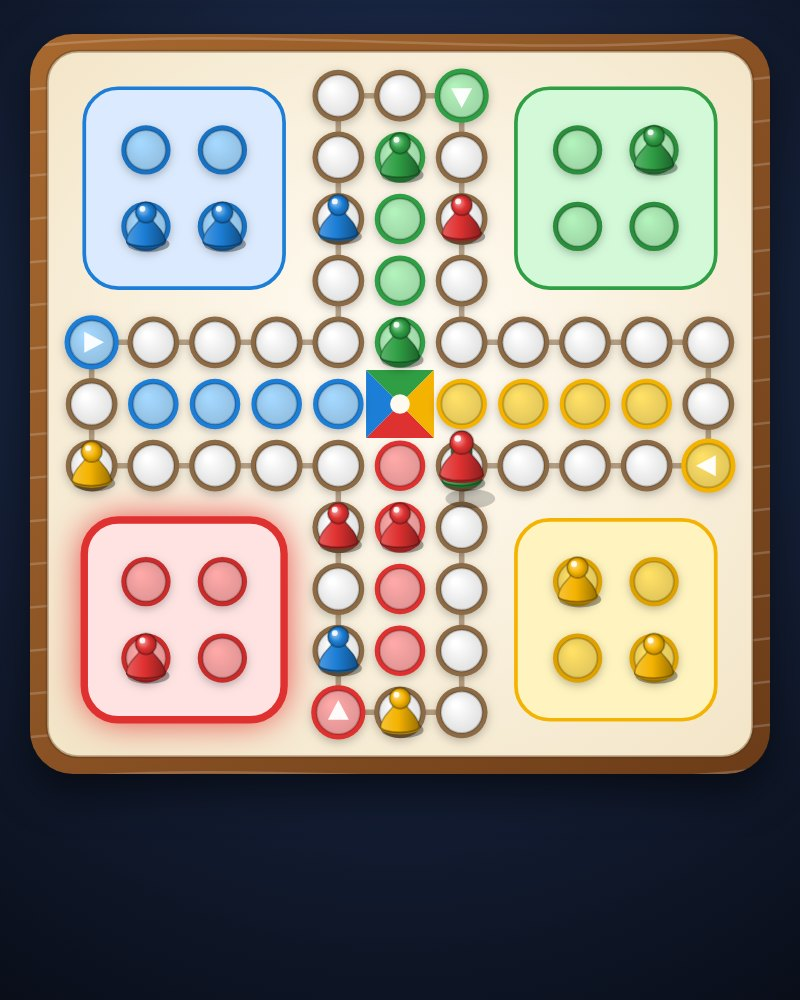
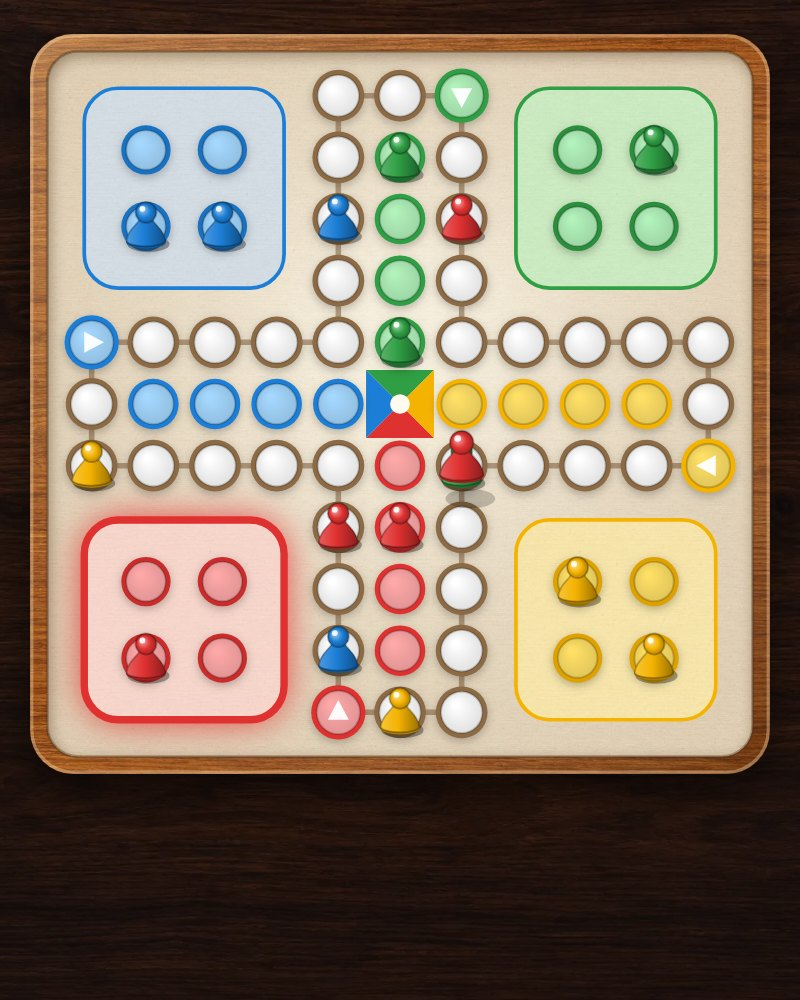
Güncelleme

diff --git a/kizma-birader/index.html b/kizma-birader/index.html
@@ -27,7 +27,7 @@ html, body { margin: 0; height: 100%; }
 body {
   display: flex; flex-direction: column; min-height: 100dvh; height: 100dvh; overflow: hidden;
   font-family: "Inter", system-ui, -apple-system, sans-serif; color: var(--text);
-  background: radial-gradient(circle at 50% 12%, #162238 0%, #090d16 68%, #06090f 100%);
+  background: radial-gradient(ellipse at 50% 42%, rgba(6, 9, 15, .05) 0%, rgba(6, 9, 15, .62) 100%), url("masa.webp") center / cover, #1a0f08;
   user-select: none; -webkit-user-select: none; -webkit-touch-callout: none;
 }
 button { font: inherit; color: inherit; cursor: pointer; }
@@ -599,7 +599,8 @@ function layout() {
   U = S / 12; PX = U * DPR; layerKey = '';
   dock.style.maxWidth = Math.max(S, 320) + 'px';
 }
-function rr(c, x, y, w, h, r) { c.beginPath(); c.moveTo(x + r, y); c.arcTo(x + w, y, x + w, y + h, r); c.arcTo(x + w, y + h, x, y + h, r); c.arcTo(x, y + h, x, y, r); c.arcTo(x, y, x + w, y, r); c.closePath(); }
+function rrAdd(c, x, y, w, h, r) { c.moveTo(x + r, y); c.arcTo(x + w, y, x + w, y + h, r); c.arcTo(x + w, y + h, x, y + h, r); c.arcTo(x, y + h, x, y, r); c.arcTo(x, y, x + w, y, r); c.closePath(); }
+function rr(c, x, y, w, h, r) { c.beginPath(); rrAdd(c, x, y, w, h, r); }
 function circ(c, x, y, r) { c.beginPath(); c.arc(x, y, r, 0, Math.PI * 2); }
 function hole(c, x, y, r, fill, ring) {
   c.save(); c.shadowColor = 'rgba(0,0,0,.25)'; c.shadowBlur = r * 0.35 * PX; c.shadowOffsetY = r * 0.12 * PX;
@@ -613,6 +614,16 @@ function shade(hex, t) {
   const n = parseInt(hex.slice(1), 16), f = (v) => Math.max(0, Math.min(255, Math.round(t < 0 ? v * (1 + t) : v + (255 - v) * t)));
   return '#' + [n >> 16, (n >> 8) & 255, n & 255].map((v) => f(v).toString(16).padStart(2, '0')).join('');
 }
+// Dokular: çerçeve (meşe), karton zemin (kağıt). Yüklenince tahta yeniden çizilir; yüklenmezse düz renkler kalır.
+const TEX = {};
+for (const [k, src] of [['wood', 'cerceve.webp'], ['paper', 'zemin.webp']]) {
+  const im = new Image(); im.onload = () => { TEX[k] = im; layerKey = ''; render(); }; im.src = src;
+}
+function texPattern(c, im, units, rep) { // dokunun bir karesi tahtada 'units' birim kaplar
+  const pat = c.createPattern(im, rep), k = units / im.width;
+  pat.setTransform(new DOMMatrix([k, 0, 0, k, 0, 0]));
+  return pat;
+}
 // Durağan tahta katmanı (yalnızca boyut ya da sıra değişince yeniden çizilir)
 function paintBoard() {
   const key = S + ':' + (G ? G.turn + G.seats.join() : '') + lang;
@@ -622,16 +633,23 @@ function paintBoard() {
   layer.width = layer.height = Math.round(S * DPR);
   const c = layer.getContext('2d'); c.setTransform(DPR * U, 0, 0, DPR * U, 0, 0);
   c.clearRect(0, 0, 12, 12);
-  // ahşap çerçeve ve krem zemin
-  let g = c.createLinearGradient(0, 0, 12, 12); g.addColorStop(0, '#a8692f'); g.addColorStop(0.5, '#8a5224'); g.addColorStop(1, '#6b3c18');
+  // ahşap çerçeve: meşe dokusu tahtanın tamamına tek parça yayılır (tekrar etmez, dikiş olmaz)
+  let g;
+  if (TEX.wood) { rr(c, 0, 0, 12, 12, 0.7); c.fillStyle = texPattern(c, TEX.wood, 12, 'no-repeat'); c.fill(); }
+  else { g = c.createLinearGradient(0, 0, 12, 12); g.addColorStop(0, '#a8692f'); g.addColorStop(1, '#6b3c18'); rr(c, 0, 0, 12, 12, 0.7); c.fillStyle = g; c.fill(); }
+  g = c.createLinearGradient(0, 0, 12, 12); // cila ışığı: sol üst parlak, sağ alt gölgede
+  g.addColorStop(0, 'rgba(255,240,210,.28)'); g.addColorStop(0.45, 'rgba(255,255,255,0)'); g.addColorStop(1, 'rgba(40,15,0,.35)');
   rr(c, 0, 0, 12, 12, 0.7); c.fillStyle = g; c.fill();
-  c.save(); rr(c, 0, 0, 12, 12, 0.7); c.clip(); // damarlar çerçevenin dışına taşmasın
-  c.strokeStyle = 'rgba(255,255,255,.18)'; c.lineWidth = 0.04;
-  for (let k = 0; k < 18; k++) { c.beginPath(); c.moveTo(0, k * 0.7 + 0.2); c.bezierCurveTo(4, k * 0.7 - 0.2, 8, k * 0.7 + 0.5, 12, k * 0.7); c.stroke(); }
-  c.restore();
-  g = c.createRadialGradient(6, 5, 1, 6, 6, 9); g.addColorStop(0, '#fffaf0'); g.addColorStop(1, '#f1e2c2');
+  rr(c, 0.03, 0.03, 11.94, 11.94, 0.68); c.strokeStyle = 'rgba(255,230,190,.35)'; c.lineWidth = 0.05; c.stroke();
+  // krem baskılı karton: kağıt dokusu döşenir, ortası hafif aydınlık
+  rr(c, 0.28, 0.28, 11.44, 11.44, 0.5); c.fillStyle = TEX.paper ? texPattern(c, TEX.paper, 6, 'repeat') : '#f6ead0'; c.fill();
+  g = c.createRadialGradient(6, 5, 1, 6, 6, 9); g.addColorStop(0, 'rgba(255,252,240,.45)'); g.addColorStop(1, 'rgba(150,110,60,.18)');
   rr(c, 0.28, 0.28, 11.44, 11.44, 0.5); c.fillStyle = g; c.fill();
-  c.strokeStyle = 'rgba(80,45,15,.35)'; c.lineWidth = 0.05; c.stroke();
+  c.save(); rr(c, 0.28, 0.28, 11.44, 11.44, 0.5); c.clip(); // çerçevenin kartona düşen iç gölgesi
+  c.shadowColor = 'rgba(60,30,5,.45)'; c.shadowBlur = 0.25 * PX; c.shadowOffsetX = 0.04 * PX; c.shadowOffsetY = 0.07 * PX;
+  c.beginPath(); rrAdd(c, -1, -1, 14, 14, 1); rrAdd(c, 0.28, 0.28, 11.44, 11.44, 0.5); c.fillStyle = '#000'; c.fill('evenodd'); // yalnız gölgesi içeri düşer
+  c.restore();
+  rr(c, 0.28, 0.28, 11.44, 11.44, 0.5); c.strokeStyle = 'rgba(80,45,15,.35)'; c.lineWidth = 0.05; c.stroke();
   // bahçeler
   for (let p = 0; p < 4; p++) {
     const [ax, ay] = YARD_C[p], on = G && G.seats[p] !== 'none';
@@ -640,6 +658,10 @@ function paintBoard() {
     if (G && G.turn === p && on) { c.shadowColor = COL[p].base; c.shadowBlur = 0.6 * PX; }
     rr(c, x - 1.62, y - 1.62, 3.24, 3.24, 0.55); c.fillStyle = on ? COL[p].pad : '#ece7dc'; c.fill();
     c.restore();
+    if (TEX.paper) { // renk kağıda basılmış gibi: doku çarpılarak işlenir
+      c.save(); c.globalCompositeOperation = 'multiply'; c.globalAlpha = 0.55;
+      rr(c, x - 1.62, y - 1.62, 3.24, 3.24, 0.55); c.fillStyle = texPattern(c, TEX.paper, 6, 'repeat'); c.fill(); c.restore();
+    }
     rr(c, x - 1.62, y - 1.62, 3.24, 3.24, 0.55); c.strokeStyle = on ? COL[p].base : '#c9c2b2'; c.lineWidth = G && G.turn === p ? 0.12 : 0.06; c.stroke();
     for (let i = 0; i < 4; i++) { const [hx, hy] = yardSlot(p, i); hole(c, hx, hy, 0.4, on ? COL[p].light : '#ddd6c6', on ? shade(COL[p].base, -0.1) : '#bdb5a3'); }
     if (G && on) { // oyuncu adı, tahtanın dış kenarına yakın şeritte
